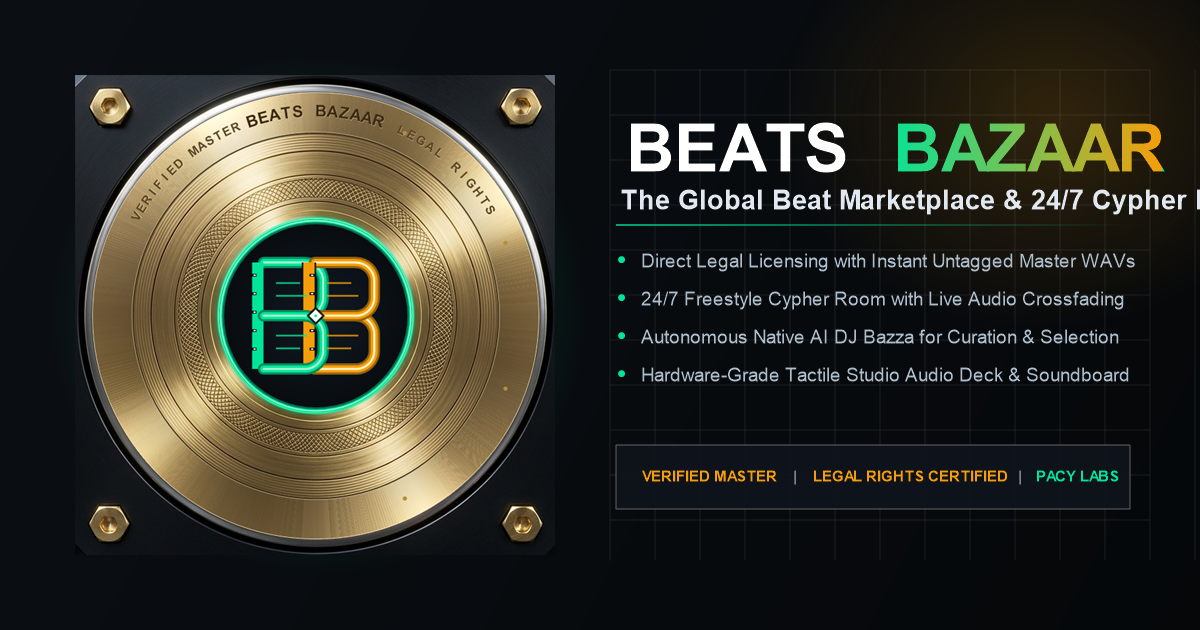
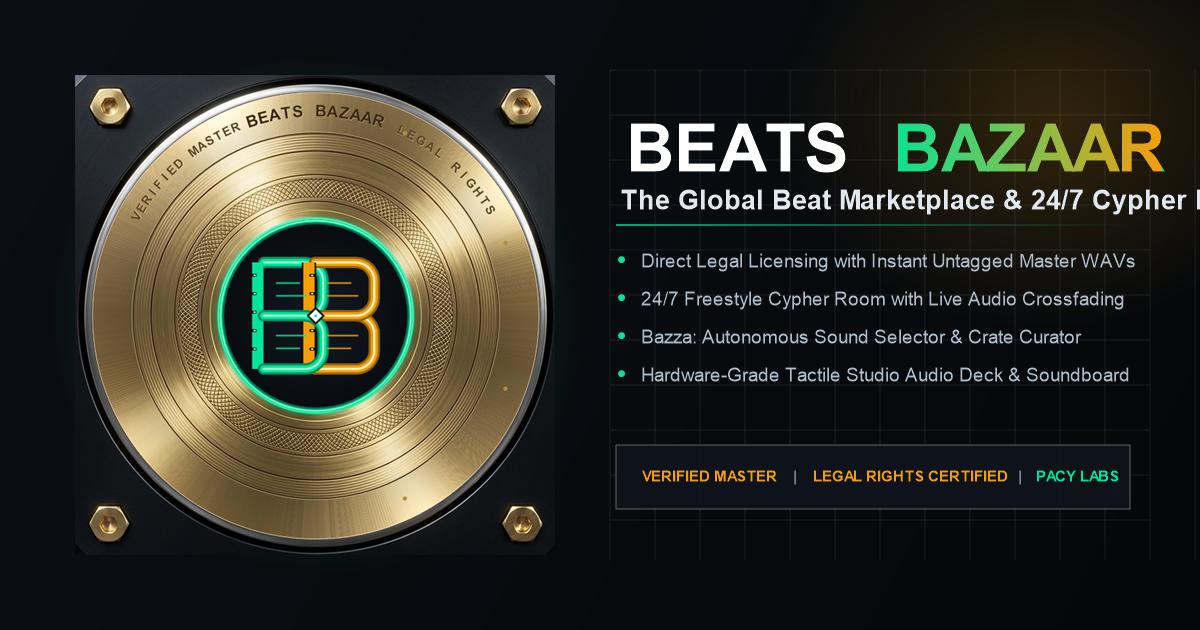
chore(branding): replace remaining AI DJ badge and text with Bazza

Changed region(s): [[0.5242, 0.5127, 0.925, 0.5429]]

diff --git a/src/app/layout.tsx b/src/app/layout.tsx
@@ -37,14 +37,14 @@ export const metadata: Metadata = {
     default: 'Beats Bazaar | The Global Beat Marketplace & 24/7 Freestyle Cypher Room',
     template: '%s | Beats Bazaar'
   },
-  description: 'The global beat marketplace and 24/7 freestyle cypher room. Direct legal licensing with untagged master WAVs, live crossfading cyphers, and native AI DJ Bazza.',
+  description: 'The global beat marketplace and 24/7 freestyle cypher room. Direct legal licensing with untagged master WAVs, live crossfading cyphers, and resident sound selector Bazza.',
   keywords: [
     'Beats Marketplace',
     'Freestyle Cypher Room',
     'Music Producers',
     'Beat Licensing',
     'Untagged Master WAV',
-    'AI DJ Bazza',
+    'Bazza Sound Selector',
     'Afrobeats',
     'Trap Beats',
     'Hip-Hop',
@@ -94,7 +94,7 @@ export const metadata: Metadata = {
     url: siteUrl,
     siteName: 'Beats Bazaar',
     title: 'Beats Bazaar | The Global Beat Marketplace & 24/7 Freestyle Cypher Room',
-    description: 'Direct legal licensing with untagged master WAV delivery, live crossfading cyphers, and native AI DJ Bazza.',
+    description: 'Direct legal licensing with untagged master WAV delivery, live crossfading cyphers, and resident sound selector Bazza.',
     images: [
       {
         url: '/og-image.png?v=5',
@@ -107,7 +107,7 @@ export const metadata: Metadata = {
   twitter: {
     card: 'summary_large_image',
     title: 'Beats Bazaar | The Global Beat Marketplace & 24/7 Freestyle Cypher Room',
-    description: 'Direct legal licensing with untagged master WAV delivery, live crossfading cyphers, and native AI DJ Bazza.',
+    description: 'Direct legal licensing with untagged master WAV delivery, live crossfading cyphers, and resident sound selector Bazza.',
     images: ['/og-image.png?v=5'],
     creator: '@beatsbazaar',
   },

diff --git a/README.md b/README.md
@@ -8,7 +8,7 @@
   [![Live Demo](https://img.shields.io/badge/Live%20Demo-beatsbazaar.vercel.app-00E599?style=for-the-badge&logo=vercel&logoColor=white)](https://beatsbazaar.vercel.app)
   [![Next.js 16](https://img.shields.io/badge/Next.js-16.4-black?style=for-the-badge&logo=next.js&logoColor=white)](https://nextjs.org/)
   [![React 19](https://img.shields.io/badge/React-19.3-61DAFB?style=for-the-badge&logo=react&logoColor=black)](https://react.dev/)
-  [![Google Gemini](https://img.shields.io/badge/AI%20DJ-Google%20Gemini%203.8%20Flash-4285F4?style=for-the-badge&logo=google&logoColor=white)](https://ai.google.dev/)
+  [![Bazza](https://img.shields.io/badge/Bazza-Google%20Gemini%203.8%20Flash-4285F4?style=for-the-badge&logo=google&logoColor=white)](https://ai.google.dev/)
   [![Web Audio API](https://img.shields.io/badge/Audio%20Engine-Web%20Audio%20API-F59E0B?style=for-the-badge&logo=webassembly&logoColor=black)](https://developer.mozilla.org/en-US/docs/Web/API/Web_Audio_API)
   [![PWA Ready](https://img.shields.io/badge/PWA-Installable%20Offline-00E599?style=for-the-badge&logo=pwa&logoColor=white)](https://web.dev/progressive-web-apps/)
 
